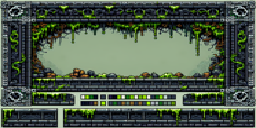
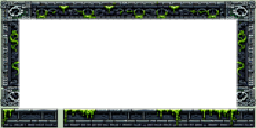
Transparent atlas center — zone background visible through info panel
Made sewers_wide.png center transparent (frame=20px kept, 2px feather).
Added dark scrim (depth 1) behind info panel text for readability.
Set all panel text/HP elements to depth 2 so they render above scrim.

diff --git a/FrontEnds/dungeon-fisher/src/scenes/FloorScene.js b/FrontEnds/dungeon-fisher/src/scenes/FloorScene.js
@@ -75,16 +75,20 @@ export default class FloorScene extends Phaser.Scene {
             : zone;
         themedPanel(this, panelMargin, 0, W - panelMargin * 2, panelH, infoPanelTheme, { cornerSize: 5 });
 
+        // Scrim behind panel text for readability (background shows through transparent atlas center)
+        this.add.rectangle(W / 2, panelH / 2, W - panelMargin * 2 - 20, panelH - 20, 0x000000, 0.4)
+            .setDepth(1);
+
         // Floor title
         this.add.text(W / 2, 8, 'Floor ' + gs.floor + ' / 100',
             makeStyle(TEXT_STYLES.TITLE_MEDIUM, { fontSize: '16px', color: accentHex(zone) })
-        ).setOrigin(0.5);
+        ).setOrigin(0.5).setDepth(2);
 
         // Gold + Inventory
         const character = getCharacterTheme(gs.fisherId);
         this.add.text(W / 2, 24, 'Gold: ' + gs.gold + '   Items: ' + gs.inventory.length + '/' + MAX_INVENTORY,
             makeStyle(TEXT_STYLES.GOLD, { fontSize: '12px', color: accentHex(character) })
-        ).setOrigin(0.5);
+        ).setOrigin(0.5).setDepth(2);
 
         // Party display with HP bars
         const isPortrait = this.registry.get('isPortrait');
@@ -95,22 +99,22 @@ export default class FloorScene extends Phaser.Scene {
             const alive = fish.hp > 0;
             this.add.text(10, py, fish.name + ' Lv.' + fish.level,
                 makeStyle(TEXT_STYLES.BODY_SMALL, { color: alive ? '#88ccff' : '#cc4444' })
-            );
+            ).setDepth(2);
 
             // HP bar background
-            this.add.graphics().fillStyle(0x333333, 1).fillRect(barX, py + 1, barW, 6);
+            this.add.graphics().fillStyle(0x333333, 1).fillRect(barX, py + 1, barW, 6).setDepth(2);
 
             // HP bar fill
             if (alive) {
                 const ratio = Math.max(0, fish.hp / fish.maxHp);
                 const color = ratio > 0.5 ? 0x33cc33 : ratio > 0.25 ? 0xcccc33 : 0xcc3333;
-                this.add.graphics().fillStyle(color, 1).fillRect(barX, py + 1, ratio * barW, 6);
+                this.add.graphics().fillStyle(color, 1).fillRect(barX, py + 1, ratio * barW, 6).setDepth(2);
             }
 
             // HP text
             this.add.text(barX + barW + 5, py, alive ? fish.hp + '/' + fish.maxHp : 'FAINTED',
                 makeStyle(TEXT_STYLES.BODY_SMALL, { color: alive ? '#aaaaaa' : '#cc4444' })
-            );
+            ).setDepth(2);
             py += 18;
         });
 

diff --git a/FrontEnds/dungeon-fisher/src/version.js b/FrontEnds/dungeon-fisher/src/version.js
@@ -2,7 +2,7 @@
 //   MAJOR — large game changes, system overhauls, breaking save changes
 //   MINOR — new features, content additions (fish, scenes, mechanics)
 //   PATCH — bug fixes, UI tweaks, balance tuning
-export const VERSION = '1.10.24';
+export const VERSION = '1.10.25';
 
 // Save format version — bump when save data structure changes.
 // This is separate from the game version because UI/balance changes
